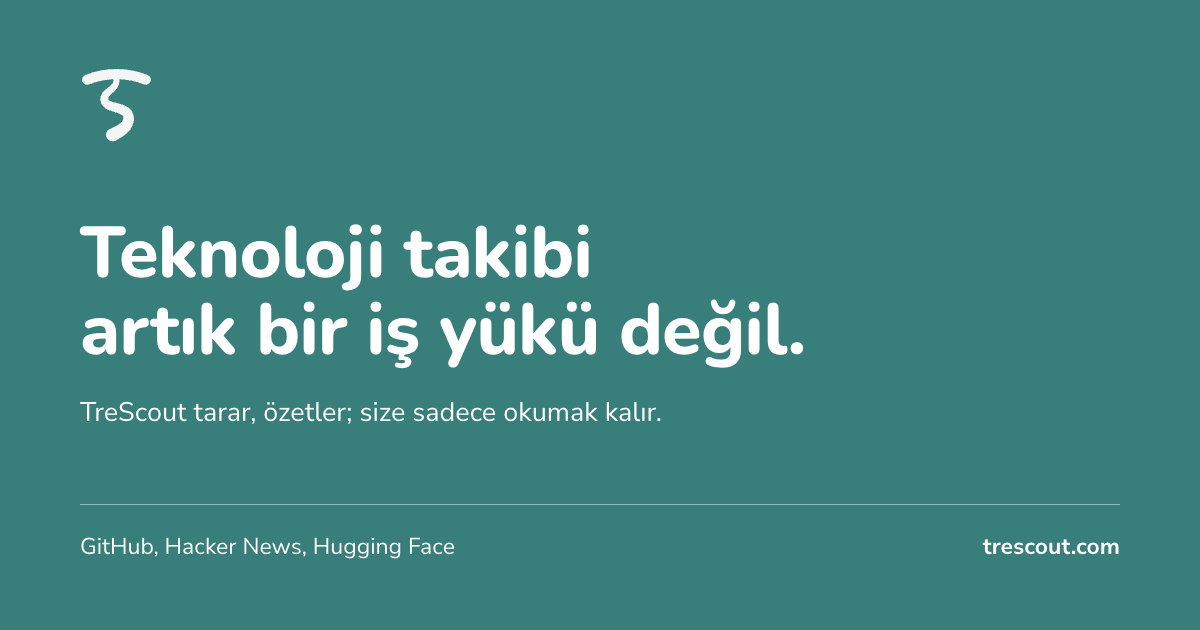
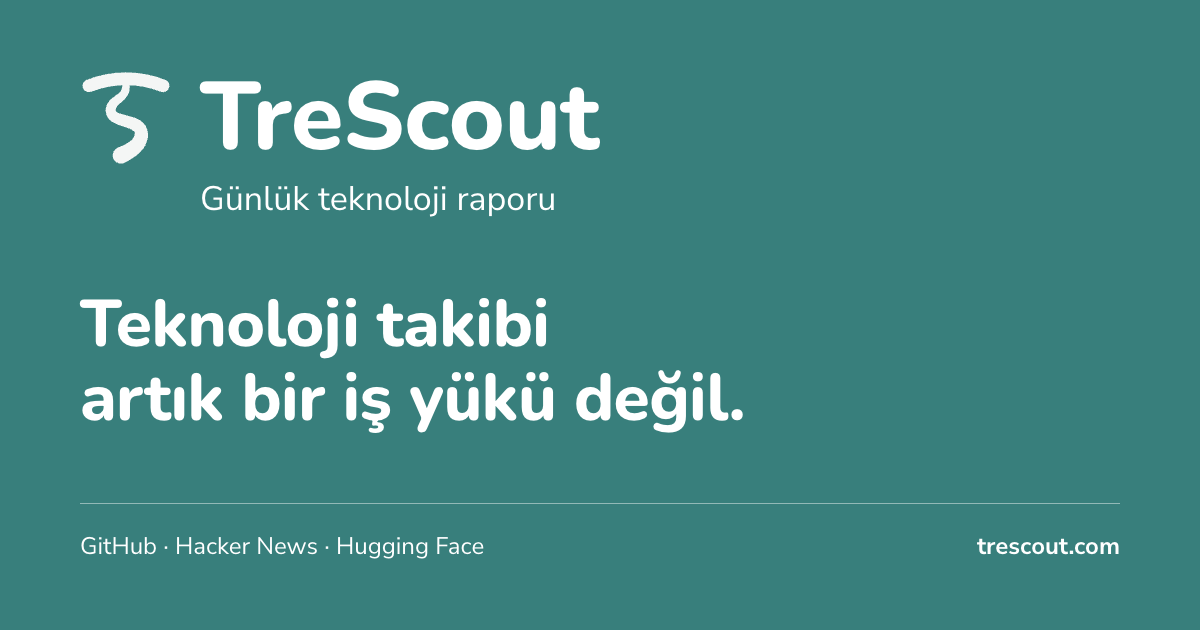
feat(codex): refresh the default brand share cover

diff --git a/de/index.html b/de/index.html
@@ -21,7 +21,7 @@
   <meta property="og:url" content="https://trescout.com/de/">
   <meta property="og:type" content="website">
   <meta property="og:locale" content="de_DE">
-  <meta property="og:image" content="https://trescout.com/og-image.png">
+  <meta property="og:image" content="https://trescout.com/og-image.png?v=20261010-brand">
   <meta property="og:image:width" content="1200">
   <meta property="og:image:height" content="630">
   <meta property="og:image:alt" content="TreScout · Technik zu verfolgen ist keine Last mehr.">
@@ -29,7 +29,7 @@
   <meta name="twitter:site" content="@GetTreScout">
   <meta name="twitter:title" content="TreScout · Technik zu verfolgen ist keine Last mehr.">
   <meta name="twitter:description" content="Ein täglicher Technik-Radar: GitHub, Hacker News und HuggingFace, jeden Tag durchsucht und zusammengefasst.">
-  <meta name="twitter:image" content="https://trescout.com/og-image.png">
+  <meta name="twitter:image" content="https://trescout.com/og-image.png?v=20261010-brand">
 
   <!-- Structured data · Organization + WebSite (Google Knowledge Graph) -->
   <script type="application/ld+json">
@@ -42,7 +42,7 @@
         "name": "TreScout",
         "url": "https://trescout.com/de/",
         "logo": "https://trescout.com/favicon.svg",
-        "image": "https://trescout.com/og-image.png",
+        "image": "https://trescout.com/og-image.png?v=20261010-brand",
         "description": "TreScout durchsucht GitHub, Hacker News und HuggingFace täglich, filtert den Lärm mit Multi-Agenten-KI und veröffentlicht kompakte Zusammenfassungen.",
         "email": "hello@trescout.com",
         "sameAs": [

diff --git a/fr/index.html b/fr/index.html
@@ -21,7 +21,7 @@
   <meta property="og:url" content="https://trescout.com/fr/">
   <meta property="og:type" content="website">
   <meta property="og:locale" content="fr_FR">
-  <meta property="og:image" content="https://trescout.com/og-image.png">
+  <meta property="og:image" content="https://trescout.com/og-image.png?v=20261010-brand">
   <meta property="og:image:width" content="1200">
   <meta property="og:image:height" content="630">
   <meta property="og:image:alt" content="TreScout · La veille technologique n'est plus une corvée.">
@@ -29,7 +29,7 @@
   <meta name="twitter:site" content="@GetTreScout">
   <meta name="twitter:title" content="TreScout · la veille technologique n'est plus une corvée.">
   <meta name="twitter:description" content="Un radar technologique quotidien : GitHub, Hacker News et HuggingFace, analysés et résumés chaque jour.">
-  <meta name="twitter:image" content="https://trescout.com/og-image.png">
+  <meta name="twitter:image" content="https://trescout.com/og-image.png?v=20261010-brand">
 
   <!-- Structured data · Organization + WebSite (Google Knowledge Graph) -->
   <script type="application/ld+json">
@@ -42,7 +42,7 @@
         "name": "TreScout",
         "url": "https://trescout.com/fr/",
         "logo": "https://trescout.com/favicon.svg",
-        "image": "https://trescout.com/og-image.png",
+        "image": "https://trescout.com/og-image.png?v=20261010-brand",
         "description": "TreScout parcourt GitHub, Hacker News et HuggingFace chaque jour, filtre le bruit avec une IA multi-agent et publie un résumé concis.",
         "email": "hello@trescout.com",
         "sameAs": [

diff --git a/index.html b/index.html
@@ -19,7 +19,7 @@
   <link rel="alternate" hreflang="x-default" href="https://trescout.com/en/">
   <meta property="og:type" content="website">
   <meta property="og:locale" content="tr_TR">
-  <meta property="og:image" content="https://trescout.com/og-image.png">
+  <meta property="og:image" content="https://trescout.com/og-image.png?v=20261010-brand">
   <meta property="og:image:width" content="1200">
   <meta property="og:image:height" content="630">
   <meta property="og:image:alt" content="TreScout · Teknoloji takibi artık bir iş yükü değil.">
@@ -27,7 +27,7 @@
   <meta name="twitter:site" content="@GetTreScout">
   <meta name="twitter:title" content="TreScout · Teknoloji takibi artık bir iş yükü değil.">
   <meta name="twitter:description" content="GitHub, Hacker News, HuggingFace'i her gün tarar, özetler, Türkçe rapor olarak yayımlar.">
-  <meta name="twitter:image" content="https://trescout.com/og-image.png">
+  <meta name="twitter:image" content="https://trescout.com/og-image.png?v=20261010-brand">
 
   <!-- Structured data · Organization + WebSite (Google Knowledge Graph) -->
   <script type="application/ld+json">
@@ -40,7 +40,7 @@
         "name": "TreScout",
         "url": "https://trescout.com",
         "logo": "https://trescout.com/favicon.svg",
-        "image": "https://trescout.com/og-image.png",
+        "image": "https://trescout.com/og-image.png?v=20261010-brand",
         "description": "TreScout, GitHub, Hacker News ve HuggingFace gibi kaynakları her gün tarar, yapay zekâ ile özetler, Türkçe rapor olarak yayımlar.",
         "email": "hello@trescout.com",
         "sameAs": [

diff --git a/pt/index.html b/pt/index.html
@@ -21,7 +21,7 @@
   <meta property="og:url" content="https://trescout.com/pt/">
   <meta property="og:type" content="website">
   <meta property="og:locale" content="pt_BR">
-  <meta property="og:image" content="https://trescout.com/og-image.png">
+  <meta property="og:image" content="https://trescout.com/og-image.png?v=20261010-brand">
   <meta property="og:image:width" content="1200">
   <meta property="og:image:height" content="630">
   <meta property="og:image:alt" content="TreScout · Acompanhar tecnologia não é mais um fardo.">
@@ -29,7 +29,7 @@
   <meta name="twitter:site" content="@GetTreScout">
   <meta name="twitter:title" content="TreScout · Acompanhar tecnologia não é mais um fardo.">
   <meta name="twitter:description" content="Um radar de tecnologia diário: GitHub, Hacker News e HuggingFace, vasculhados e resumidos todos os dias.">
-  <meta name="twitter:image" content="https://trescout.com/og-image.png">
+  <meta name="twitter:image" content="https://trescout.com/og-image.png?v=20261010-brand">
 
   <!-- Structured data · Organization + WebSite (Google Knowledge Graph) -->
   <script type="application/ld+json">
@@ -42,7 +42,7 @@
         "name": "TreScout",
         "url": "https://trescout.com/pt/",
         "logo": "https://trescout.com/favicon.svg",
-        "image": "https://trescout.com/og-image.png",
+        "image": "https://trescout.com/og-image.png?v=20261010-brand",
         "description": "A TreScout percorre GitHub, Hacker News e HuggingFace todos os dias, filtra o ruído com IA multiagente e publica resumos concisos.",
         "email": "hello@trescout.com",
         "sameAs": [

diff --git a/es/index.html b/es/index.html
@@ -21,7 +21,7 @@
   <meta property="og:url" content="https://trescout.com/es/">
   <meta property="og:type" content="website">
   <meta property="og:locale" content="es_ES">
-  <meta property="og:image" content="https://trescout.com/og-image.png">
+  <meta property="og:image" content="https://trescout.com/og-image.png?v=20261010-brand">
   <meta property="og:image:width" content="1200">
   <meta property="og:image:height" content="630">
   <meta property="og:image:alt" content="TreScout · Seguir la tecnología ya no es una carga.">
@@ -29,7 +29,7 @@
   <meta name="twitter:site" content="@GetTreScout">
   <meta name="twitter:title" content="TreScout · Seguir la tecnología ya no es una carga.">
   <meta name="twitter:description" content="Un radar tecnológico diario: GitHub, Hacker News y HuggingFace, rastreados y resumidos cada día.">
-  <meta name="twitter:image" content="https://trescout.com/og-image.png">
+  <meta name="twitter:image" content="https://trescout.com/og-image.png?v=20261010-brand">
 
   <!-- Structured data · Organization + WebSite (Google Knowledge Graph) -->
   <script type="application/ld+json">
@@ -42,7 +42,7 @@
         "name": "TreScout",
         "url": "https://trescout.com/es/",
         "logo": "https://trescout.com/favicon.svg",
-        "image": "https://trescout.com/og-image.png",
+        "image": "https://trescout.com/og-image.png?v=20261010-brand",
         "description": "TreScout recorre GitHub, Hacker News y HuggingFace cada día, filtra el ruido con IA multiagente y publica resúmenes concisos.",
         "email": "hello@trescout.com",
         "sameAs": [

diff --git a/en/index.html b/en/index.html
@@ -21,7 +21,7 @@
   <meta property="og:url" content="https://trescout.com/en/">
   <meta property="og:type" content="website">
   <meta property="og:locale" content="en_US">
-  <meta property="og:image" content="https://trescout.com/og-image.png">
+  <meta property="og:image" content="https://trescout.com/og-image.png?v=20261010-brand">
   <meta property="og:image:width" content="1200">
   <meta property="og:image:height" content="630">
   <meta property="og:image:alt" content="TreScout · Tech monitoring is no longer a burden.">
@@ -29,7 +29,7 @@
   <meta name="twitter:site" content="@GetTreScout">
   <meta name="twitter:title" content="TreScout · Tech monitoring is no longer a burden.">
   <meta name="twitter:description" content="Daily AI-filtered tech radar scanning GitHub, Hacker News, and HuggingFace.">
-  <meta name="twitter:image" content="https://trescout.com/og-image.png">
+  <meta name="twitter:image" content="https://trescout.com/og-image.png?v=20261010-brand">
 
   <!-- Structured data · Organization + WebSite (Google Knowledge Graph) -->
   <script type="application/ld+json">
@@ -42,7 +42,7 @@
         "name": "TreScout",
         "url": "https://trescout.com/en/",
         "logo": "https://trescout.com/favicon.svg",
-        "image": "https://trescout.com/og-image.png",
+        "image": "https://trescout.com/og-image.png?v=20261010-brand",
         "description": "TreScout scans GitHub, Hacker News, and HuggingFace daily, filters the noise with multi-agent AI, and publishes concise reports.",
         "email": "hello@trescout.com",
         "sameAs": [

diff --git a/docs/prompts/2026-10-10-brand-share-cover.md b/docs/prompts/2026-10-10-brand-share-cover.md
@@ -1,0 +1,61 @@
+# Brand share cover · 2026-10-10
+
+## Brief and scope
+
+The user requested a stronger default link-preview cover for trescout.com: make
+TreScout immediately recognizable, explain that it is a daily technology report,
+and retain the existing teal palette, simple composition, and canonical logo.
+
+The app repository owns the renderer in `scripts/gen-og-image.ts`. Landing serves
+its 1200 × 630 output at `/og-image.png`. The six homepages use
+`?v=20261010-brand` in `og:image`, `twitter:image`, and the Organization schema's
+`image` field. Other default-image consumers retain their existing URLs. Dated
+report images and their metadata are outside this change.
+
+## Copy and review status
+
+- New descriptor: “Günlük teknoloji raporu” (draft).
+- Existing hero tagline retained: “Teknoloji takibi artık bir iş yükü değil.”
+- Gemini CLI was attempted by the coordinating Codex agent but could not run
+  because `GEMINI_API_KEY` was not configured. No Gemini copy review occurred.
+- Claude CLI was attempted by the coordinating Codex agent but could not run
+  because it was not logged in. No Claude copy review occurred.
+- Codex inspected the repository's brand and copy-review instructions. That
+  inspection does not replace either required model review.
+- The descriptor remains a draft pending the required copy review or an explicit
+  user exception. This work does not authorize merging or publishing it.
+
+## Implementation and verification brief
+
+Change only the three default-image URL references on each existing homepage
+(`index.html`, `en/`, `fr/`, `pt/`, `es/`, and `de/`). Preserve all other page
+content. Run the SEO/GEO guard and verify that the homepage generator preserves
+each complete `<head>` after regeneration using an isolated output fixture.
+
+The metadata audit identified `scripts/ana-sayfa.py` as a body-only generator,
+with existing homepage heads as the canonical metadata source. The locale shell
+refresher changes nav and footer only. No generator edit is required to preserve
+these versioned URLs.
+
+Verification completed locally:
+
+- `python3 scripts/check-seo-geo.py`: passed for 9,510 HTML pages, 623 tools,
+  705 terms, and 1,385 unique report descriptions; no endpoint request sent.
+- `scripts/ana-sayfa.py`: regenerated all six homepages against the current
+  report data in an isolated temporary output tree. Every complete `<head>` was
+  unchanged and retained all three versioned image references.
+- Exact comparison with the original six homepage files: only the 18 requested
+  URL replacements changed.
+- `git diff --check`: passed.
+
+## AI traceability
+
+- Plan and implementation: OpenAI Codex, with separate rendering and metadata
+  work delegated within the same task.
+- Repository skills consulted: `brand-voice-check`, `gemini-translation`,
+  `ai-traceability-fill`, and `code-review-pre`.
+- Human input: design direction and scope. No human-written implementation is
+  claimed.
+- Gemini review: not completed.
+- Claude review: not completed.
+- Commit, push, merge, and publication: not performed by the metadata agent.

diff --git a/docs/AI_USAGE_LOG.md b/docs/AI_USAGE_LOG.md
@@ -2,6 +2,7 @@
 
 | Tarih | Kişi | Görev | AI Aracı | Rol | PR/Commit |
 |---|---|---|---|---|---|
+| 2026-10-10 | Codex | Draft default share-cover redesign; version the OG, Twitter and Organization image URLs on six homepages; preserve homepage metadata during regeneration. Prompt archive: [brand share cover](prompts/2026-10-10-brand-share-cover.md) | OpenAI Codex | Plan, implementation and checks; new descriptor “Günlük teknoloji raporu” is a draft, existing tagline retained; Gemini CLI unavailable (missing GEMINI_API_KEY), Claude CLI not logged in; neither reviewed the copy | `feature/brand-share-cover` (draft, not approved for merge) |
 | 2026-10-10 | Codex | Move comparison to the footer; add contact/team mail links; align six privacy footers; move homepage discovery above the dictionary; rename notification headings; declare ICO fallback and shorten favicon cache | OpenAI Codex | Plan, implementation and checks; Turkish contact labels requested by Burhan; new notification label drafted by Codex, Gemini CLI unavailable (no configured API key), Claude review not performed | `feature/site-navigation-notifications` |
 | 2026-10-10 | Codex | Replace thick small-size logos with the canonical tapering-S mark in six page generators, 9,493 generated HTML pages and favicon assets; check complete logo paths in every navigation/footer container | OpenAI Codex | Implementation and verification; no user-facing copy changes | `feature/standard-logo-geometry` |
 | 2026-07-27 | Mustafa | Keşif enrichment · Parti A (Issue #30) | Antigravity | Skills Agent | Refs #30 |

diff --git a/docs/PROMPTS.md b/docs/PROMPTS.md
@@ -9,3 +9,7 @@
 - Constraints: preserve report/editorial and legal content, keep the same changes across all six languages, update publisher templates, do not submit forms or inspect private subscriber records.
 - Verification: all read-only CSP workflow commands; favicon normalization self-test and drift guard; 36 browser page/viewport combinations (six locales, homepage/privacy, 1440/390/320 pixels); embedded privacy footer hidden; live favicon hashes matched the merged standard assets.
 - Copy provenance: contact/team labels supplied by the user; notification headings drafted by Codex. Gemini CLI was attempted but had no configured API key. Gemini and Claude copy review remain pending and must not be claimed complete.
+
+## Brand share cover · 2026-10-10
+
+[Brief, specialist prompts, review limitations and validation](prompts/2026-10-10-brand-share-cover.md).
